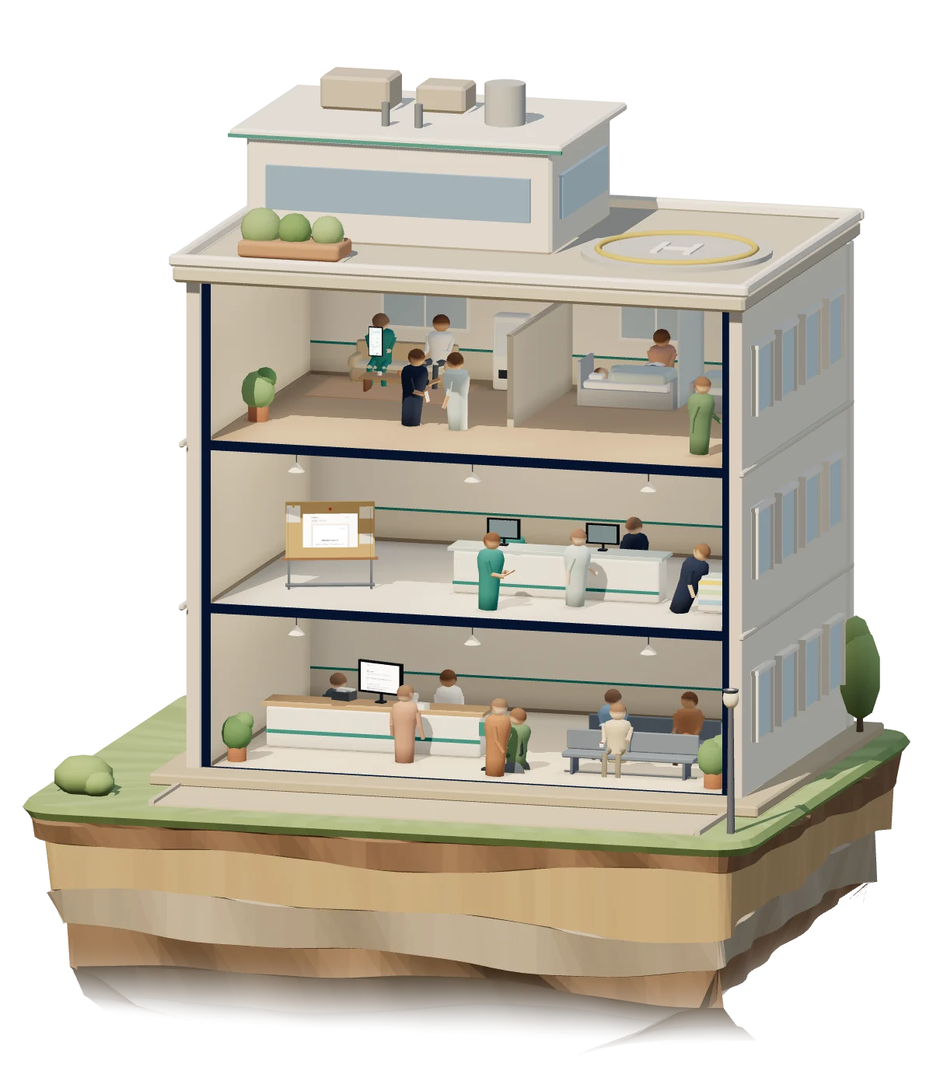
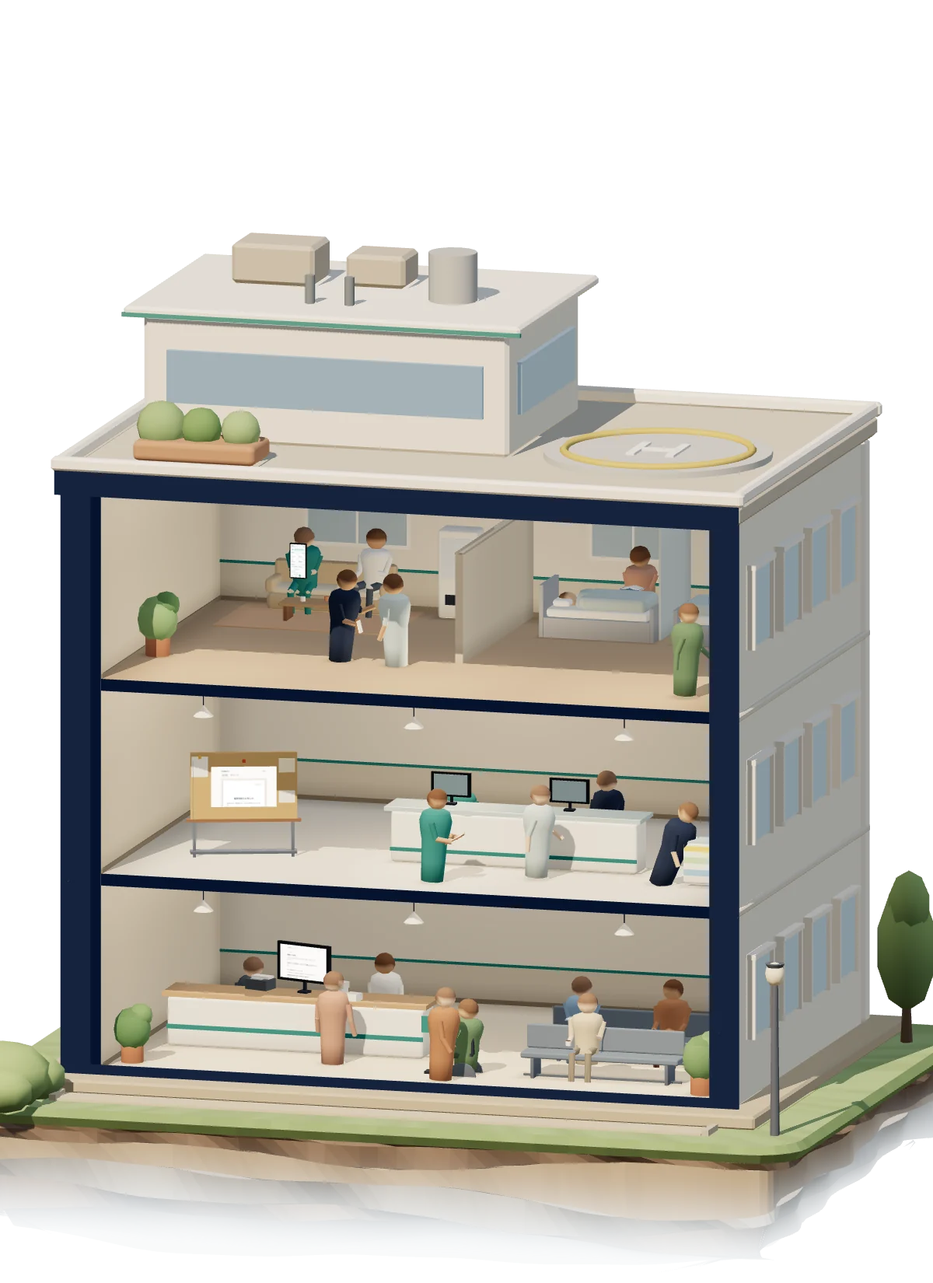
wip(top): 「ひらく町 v5 案B」第2回 建物を大きく・夜の空気と月明かり・断面の輪郭・札(途中保存)
- 構図: 一切れの左と前を詰め(SLAB)、土の厚みを半分に(STRATA)。スマホ 393×724 で 1階ぶん約81px
- 空気: 土は下へ行くほど区画の空の色へ溶ける(soilAir・HAZE)。昼の地層の彩度を下げた。夜は月(MOON)が右の側壁の角と軒を照らす
- 入り: 「病院の中」と一文を区画の空の左上へ重ね、島が抜けきる前に屋根が出るよう間を詰めた。町の病院の札は屋根が見えるまで残す
- 断面の輪郭: 左の壁と屋根の厚みを床と同じ藍で(frameCut)。壁が沈むのに合わせて濃く
- 札: 3F は「病棟」に。階の札は 12px で部屋の右上の角へ。JS がないときは札を出さない
- 止めた絵(昼・夕・夜)を撮り直し、IN_POS・--ar・tools/README.md を合わせた

Claude-Session: https://claude.ai/code/session_016dwt5JPBcjN3XLYgLUEaNS

diff --git a/proto/top-ad/hiraku5b/sect.js b/proto/top-ad/hiraku5b/sect.js
@@ -11,23 +11,31 @@ import * as THREE from 'three';
 
 const deg = d => d * Math.PI / 180, clamp01 = v => Math.max(0, Math.min(1, v));
 const ease = v => { v = clamp01(v); return v < .5 ? 4 * v * v * v : 1 - Math.pow(-2 * v + 2, 3) / 2; };
-/* 構図: az = 正面からの回し(度。負で右の側面が見える)、el = 見下ろす角度(度)。m = 枠の余白(幅・高さに対する比) */
-export const VIEW = { az: -16, el: 11, m: { l: .02, r: .02, t: .025, b: .02 } };
+/* 構図: az = 正面からの回し(度。負で右の側面が見える)、el = 見下ろす角度(度)。m = 枠の余白(幅・高さに対する比)。
+   上の余白は、スマホで「病院の中」と一文を空に重ねる所(屋上の設備の上。約 78px) */
+export const VIEW = { az: -16, el: 11, m: { l: .015, r: .015, t: .142, b: .01 } };
+/* 枠に収める横の幅: 建物の左右に side だけ(一切れの左右の端は、画面の外へ出てよい)。スマホで各階が約 80px になる幅 */
+const FR = { side: .27 };
 /* 一切れの大きさ(主棟の外の面から): 左右・奥・手前(車寄せの前の広場) */
-const SLAB = { l: .72, r: .3, back: .3, front: .95 };   // 左は階の札の場所(左の切り口の外)
+const SLAB = { l: .45, r: .45, back: .3, front: .55 };
 const TOD_I = { day: 0, dusk: 1, night: 2 };
-const ROOMS = [2, 1, 0];   // 階の札(3F・2F・1F の順)。左の切り口の外、その階の真ん中の高さ
+const ROOMS = [2, 1, 0];   // 階の札(3F・2F・1F の順)。その階の部屋の右上の角(病院の階の案内の札のように)
 const STATIONS = ['yawagaeshi', 'keiji', 'nidodema'];
+/* 一切れの土にかける空気: 区画の空の色(時刻ごと)。上の草のすぐ下から掛かり始め、下の端で空へ溶けきる */
+const HAZE = [new THREE.Color('#DAE6ED'), new THREE.Color('#C4B1B9'), new THREE.Color('#141D41')];   // 昼・夕・夜(区画の空の --in-1 と --in-2 の間)
+/* 夜の月明かり: 町と同じ色と強さのまま、向きだけ右手前の上から(右の側面と軒・角に光が乗り、夜空の中で立体が読める) */
+const MOON = new THREE.Vector3(10, 11, 3);
 
 /* ---------- 島の一切れ(角の丸い長方形の地層。島の縁と同じ層と色) ---------- */
-const STRATA = [   // 島の縁(world.js)と同じ層と色。縦はおよそ 0.6 倍(低い角度から見ると、層の面が正面に近く、厚く見えるため)
+const STRATA = [   // 島の縁(world.js)と同じ層と色。土の厚みは、第1回の半分(草の下から -0.78 まで)
   { y: 0, d: 0, c: null }, { y: -.04, d: .03, c: 'grassEdge' }, { y: -.09, d: -.012, c: 'grassEdge' },
-  { y: -.1, d: -.03, c: 'soil1' }, { y: -.22, d: -.05, c: 'soil1' },
-  { y: -.23, d: -.09, c: 'soil2' }, { y: -.55, d: -.11, c: 'soil2' },
-  { y: -.56, d: -.15, c: 'soil3' }, { y: -.8, d: -.19, c: 'soil3' },
-  { y: -.81, d: -.24, c: 'soil4' }, { y: -1.0, d: -.32, c: 'soil4' },
-  { y: -1.03, d: -.42, c: 'rock' }, { y: -1.22, d: -.66, c: 'rock' }, { y: -1.25, d: -.74, c: 'rockD' }, { y: -1.45, d: -1.1, c: 'rockD' }
+  { y: -.1, d: -.03, c: 'soil1' }, { y: -.16, d: -.045, c: 'soil1' },
+  { y: -.165, d: -.07, c: 'soil2' }, { y: -.325, d: -.085, c: 'soil2' },
+  { y: -.33, d: -.11, c: 'soil3' }, { y: -.45, d: -.14, c: 'soil3' },
+  { y: -.455, d: -.17, c: 'soil4' }, { y: -.55, d: -.22, c: 'soil4' },
+  { y: -.565, d: -.29, c: 'rock' }, { y: -.66, d: -.45, c: 'rock' }, { y: -.675, d: -.5, c: 'rockD' }, { y: -.775, d: -.75, c: 'rockD' }
 ];
+const SOIL_BOTTOM = -.775;
 function rimPoints(x0, x1, z0, z1, rad, step) {   // 外向きの向きつきの縁の点 [x, z, nx, nz]。正面(+z)の左から右へ、時計回り
   const out = [], line = (ax, az, bx, bz, nx, nz) => { const L = Math.hypot(bx - ax, bz - az), n = Math.max(1, Math.round(L / step)); for (let i = 0; i < n; i++) { const u = i / n; out.push([ax + (bx - ax) * u, az + (bz - az) * u, nx, nz]); } };
   const arc = (cx, cz, a0, a1) => { const n = 5; for (let i = 0; i < n; i++) { const a = a0 + (a1 - a0) * i / n; out.push([cx + Math.cos(a) * rad, cz + Math.sin(a) * rad, Math.cos(a), Math.sin(a)]); } };
@@ -58,7 +66,7 @@ function slice(world, ctx, K, BOXES, WALL) {
     const cc = STRATA[k + 1].c; if (!cc) continue;
     for (let i = 0; i < N; i++) {
       const a = rows[k][i], b2 = rows[k][(i + 1) % N], c = rows[k + 1][(i + 1) % N], d = rows[k + 1][i], nx = (a[3] + b2[3]) / 2, nz = (a[4] + b2[4]) / 2;
-      tmp.set(C[cc]).offsetHSL(0, (rnd() - .5) * .02, (rnd() - .5) * .035 - (k > 6 ? .02 : 0));
+      tmp.set(C[cc]).offsetHSL(0, (cc === 'grassEdge' ? 0 : -.14) + (rnd() - .5) * .02, (rnd() - .5) * .035 - (k > 6 ? .02 : 0));   // 土と岩は彩度を落とす(最初の画面の島の下と同じ落ち着き。ケーキの断面に見えないように)
       const b0 = pos.length / 3;
       for (const v of [a, b2, c, d]) { pos.push(v[0], v[1], v[2]); nor.push(nx, -.15 * (k > 10 ? 1 : 0), nz); col.push(tmp.r, tmp.g, tmp.b); }
       idx.push(b0, b0 + 1, b0 + 2, b0, b0 + 2, b0 + 3);
@@ -94,13 +102,26 @@ async function parts() {
   return { W, BOXES: Bd.BOXES, WALL: Bd.WALL, K, MOD };
 }
 function sceneOpts(P, q) { return { only: 'hospital', quality: q, ao: false, exterior: { solo: true }, extra: (world, ctx) => slice(world, ctx, P.K, P.BOXES, P.WALL) }; }
-/* 枠に収める点: 一切れの上の縁と下の端、建物の箱(屋上の設備まで)、右奥の木のてっぺん */
+/* 枠に収める点: 建物の箱(屋上の設備の高さまで)の左右に FR.side を足した幅と、一切れの手前の縁・土の下の端(高さだけ。一切れの左右の端は画面の外へ出てよい) */
 function framePts(P) {
   const ex = slabExtent(P.BOXES, P.WALL), b = P.BOXES.hospital, top = b.h + .1 + .62 + .35 + .06, pts = [];
-  for (const [x, z] of [[ex.x0, ex.z0], [ex.x1, ex.z0], [ex.x0, ex.z1], [ex.x1, ex.z1]]) pts.push(new THREE.Vector3(x, 0, z), new THREE.Vector3(x * .7, -1.45, z * .7 + (ex.z0 + ex.z1) * .15));
-  for (const x of [-ex.X, ex.X]) for (const z of [-ex.Z, ex.Z]) pts.push(new THREE.Vector3(x, top, z));
-  pts.push(new THREE.Vector3(ex.x1 - .2, 1.24, ex.z0 + .45));
+  for (const x of [-ex.X - FR.side, ex.X + FR.side]) for (const z of [-ex.Z, ex.Z]) pts.push(new THREE.Vector3(x, top, z), new THREE.Vector3(x, 0, z));
+  pts.push(new THREE.Vector3(0, 0, ex.z1), new THREE.Vector3(0, SOIL_BOTTOM, ex.z1 - .3));
   return pts;
+}
+/* 断面の輪郭: 左右の壁と屋根の床の切り口、地面の線を、階の床の切り口と同じ藍で太く(光に左右されない図面の線)。
+   左右は前の壁のあった厚みの中(前の壁があるうちは隠れる)、屋根は屋根の板の前の面。壁が沈んでから濃くする */
+function frameCut(P, anchor) {
+  const b = P.BOXES.hospital, t = P.WALL, X = b.w / 2 + .004, Z = b.d / 2 + .004, h = b.h, out = X + t, sw = .115;
+  const mat = new THREE.MeshBasicMaterial({ color: '#16233E', toneMapped: false, transparent: true, opacity: 0 });
+  const g = new THREE.Group(), add = (w, hh, d, x, y, z) => { const m = new THREE.Mesh(new THREE.BoxGeometry(w, hh, d), mat); m.position.set(x, y, z); g.add(m); };
+  const zc = Z + .074;   // 前の壁の厚みの中(側面の石の水切りの前の端より手前。壁があるうちは隠れ、透明のまま)
+  add(sw + .035, h + .1, .006, -out - .035 + (sw + .035) / 2, (h + .1) / 2, zc);
+  add(sw + .035, h + .1, .006, out + .035 - (sw + .035) / 2, (h + .1) / 2, zc);
+  add(2 * out, .085, .006, 0, .012, zc);                                    // 地面の線(1階の床の切り口の下)
+  add(2 * out + .1, .12, .004, 0, h + .044, (2 * (Z + t) + .1) / 2 + .002);   // 屋根の板の前の面
+  anchor.add(g);
+  return mat;
 }
 function aim(P, camera, world, W, H, mg) {
   world.rotation.y = deg(45 + VIEW.az); world.updateMatrixWorld(true);
@@ -127,12 +148,24 @@ function fitLights(L) {
   sc.left = x0; sc.right = x1; sc.bottom = y0; sc.top = y1; sc.updateProjectionMatrix();
 }
 const MODE = m => m < .5 ? 'day' : m < 1.5 ? 'dusk' : 'night';
-/* 札の位置: 道具は物の上(画面の板の少し上)、階の札は左の切り口の角の外(その階の真ん中の高さ)。枠の中の px */
+/* 時刻の灯り(町と同じ applyTod)に、断面の場だけの2つを足す: 夜の月を右手前の上から(MOON)、一切れの土にかける空気の色を区画の空に(HAZE) */
+function atmos(P, L, renderer, m) {
+  const U = P.W.U, glow = P.W.applyTod(L, renderer, m), nk = clamp01((m - 1.2) / .8);
+  if (nk > 0) L.sun.position.lerp(MOON, nk);
+  fitLights(L);
+  const i = Math.min(1, Math.floor(m)), k = m - i; U.uHazeC.value.copy(HAZE[i]).lerp(HAZE[Math.min(2, i + 1)], k);
+  return glow;
+}
+/* 土の空気: 草のすぐ下から掛かり始め、下の端で区画の空へ(色を寄せ、透明へ) */
+function soilAir(U) { U.uHazeY.value.set(SOIL_BOTTOM, -.1); U.uHazeK.value = .78; U.uHazeA.value = .9; }
+/* 札の位置: 道具は物の上(画面の板の少し上)、階の札はその階の部屋の右上の角。枠の中の px */
 function labels(P, it, camera, world, W, H) {
-  const v = new THREE.Vector3(), out = { st: {}, fl: [] }, b = P.BOXES.hospital, fh = b.h / b.floors, ex = slabExtent(P.BOXES, P.WALL);
+  const v = new THREE.Vector3(), out = { st: {}, fl: [] }, b = P.BOXES.hospital, fh = b.h / b.floors;
   it.group.updateWorldMatrix(true, true);
   for (const s of it.stations) { if (!STATIONS.includes(s.id)) continue; v.copy(s.anchor); it.group.localToWorld(v); v.project(camera); out.st[s.id] = [(v.x + 1) / 2 * W, (1 - v.y) / 2 * H]; }
-  for (const f of ROOMS) { v.set(-ex.X, .06 + fh * (f + .5), ex.Z); world.localToWorld(v); v.project(camera); out.fl.push([(v.x + 1) / 2 * W, (1 - v.y) / 2 * H]); }
+  // 階の札: その階の部屋の右上の角(右の切り口のすぐ内側・上の床の切り口のすぐ下。部屋の前の面の高さで)。道具の札は左寄りなので重ならない。
+  // 3階の右は病棟、2階の右はナースステーションのカウンター(札の名前の場所そのもの)
+  for (const f of ROOMS) { v.set(b.w / 2 - .085, .06 + fh * (f + 1) - .085, b.d / 2 - .04); world.localToWorld(v); v.project(camera); out.fl.push([(v.x + 1) / 2 * W, (1 - v.y) / 2 * H]); }
   return out;
 }
 
@@ -153,13 +186,14 @@ export async function section(o) {
   // 一棟だけ: 病院を「ひらいた建物」にして、前の壁の動き(沈む)を uPM[1] に。屋根は残す。前の壁は地面の高さより下を描かない
   U.uOpenA.value = LAY.hospital.bid; U.uRoofA.value = 1; U.uGroundCut.value = -.004; U.uFocus.value = -1;
   for (const M4 of U.uPM.value) M4.identity();
-  U.uHazeY.value.set(-1.45, -.82); U.uHazeK.value = 0; U.uHazeA.value = 1;   // 一切れの下の端は、透明へ溶かす(ページの空の色がそのまま見える)
+  soilAir(U);   // 一切れの土は、下へ行くほど区画の空の色へ溶ける(最初の画面の島の下と同じ空気)
   // 中の形(人と道具)。画像は絶対の URL で読む
   const loader = new THREE.TextureLoader();
   const cctx = { palette: Wd.PALETTE, quality: q, loadTexture: url => loader.loadAsync(url).then(tx => { tx.colorSpace = THREE.SRGBColorSpace; return tx; }) };
   const it = P.MOD.buildInterior('hospital', P.BOXES.hospital, cctx); S.B.hospital.anchor.add(it.group); it.group.visible = true;
+  const cutMat = frameCut(P, S.B.hospital.anchor);
   let todX = o.tod || 0, todT = todX, mode = MODE(todX);
-  function setTodNow(m) { const glow = Wd.applyTod(L, renderer, m); fitLights(L); it.setNight(glow); mode = MODE(m); }
+  function setTodNow(m) { const glow = atmos(P, L, renderer, m); it.setNight(glow); mode = MODE(m); }
   setTodNow(todX);
   inLight(P, L, S.world);
   const BH = P.BOXES.hospital.h, SINK = BH + .25;
@@ -167,6 +201,7 @@ export async function section(o) {
   function applyReveal() {
     const k = ease(rv);
     U.uPM.value[1].makeTranslation(0, -SINK * k, 0);
+    cutMat.opacity = clamp01((k - .45) / .35);   // 断面の輪郭は、壁が沈むのに合わせて濃く
     const il = clamp01((rv - .28) / .6), glow = U.uNight.value;
     L.pIn.intensity = (1.4 + glow * 2) * il;
     if (!revealed && rv > .3) { revealed = true; if (it.reveal) it.reveal(); }
@@ -230,11 +265,12 @@ export async function capture(Q) {
   U.uOpenA.value = Wd.LAYOUT.hospital.bid; U.uRoofA.value = 1; U.uGroundCut.value = -.004;
   for (const M4 of U.uPM.value) M4.identity();
   U.uPM.value[1].makeTranslation(0, -(P.BOXES.hospital.h + .25), 0);
-  U.uHazeY.value.set(-1.45, -.82); U.uHazeK.value = 0; U.uHazeA.value = 1;
-  const glow = Wd.applyTod(L, renderer, tod); fitLights(L);
+  soilAir(U);
+  const glow = atmos(P, L, renderer, tod);
   const loader = new THREE.TextureLoader();
   const cctx = { palette: Wd.PALETTE, quality: 'high', loadTexture: url => loader.loadAsync(url).then(tx => { tx.colorSpace = THREE.SRGBColorSpace; return tx; }) };
   const it = P.MOD.buildInterior('hospital', P.BOXES.hospital, cctx); S.B.hospital.anchor.add(it.group);
+  frameCut(P, S.B.hospital.anchor).opacity = 1;
   await it.ready; it.setNight(glow); if (it.reveal) it.reveal();
   await new Promise(r => setTimeout(r, 1400));
   const t = +(Q.get('t') || 0);

diff --git a/proto/top-ad/hiraku5b/index.html b/proto/top-ad/hiraku5b/index.html
@@ -304,17 +304,17 @@ main:focus{outline:none}
 @property --in-0{syntax:'<color>';inherits:true;initial-value:transparent}
 @property --in-1{syntax:'<color>';inherits:true;initial-value:transparent}
 @property --in-2{syntax:'<color>';inherits:true;initial-value:transparent}   /* 色として登録して、時刻を変えたときに空の色が立体の灯りと一緒に移るように(登録できないブラウザでは、すぐ替わる) */
-:root{--in-0:rgb(var(--mist));--in-1:var(--sky-d2);--in-2:var(--sky-d1);--ar:1.16612;--in-fg-3:var(--ink-3)}   /* --ar: 断面の枠の 高さ / 幅(sect.js の frameAspect と同じ。止めた画像と立体を同じ枠に) */
+:root{--in-0:rgb(var(--mist));--in-1:var(--sky-d2);--in-2:var(--sky-d1);--ar:1.37484;--in-fg-3:var(--ink-3)}   /* --ar: 断面の枠の 高さ / 幅(sect.js の frameAspect と同じ。止めた画像と立体を同じ枠に) */
 html[data-tod="dusk"]{--in-1:var(--sky-e2);--in-2:var(--sky-e1)}
 html[data-tod="night"]{--in-1:var(--sky-n2);--in-2:var(--sky-n1);--in-fg-3:#BFC5D6}
-.inside{position:relative;isolation:isolate;padding-top:clamp(18px,4vh,40px);background:linear-gradient(180deg,var(--in-0) 0,var(--in-1) 48%,var(--in-2) 100%);color:var(--hero-fg);transition:--in-0 1.2s var(--ease),--in-1 1.2s var(--ease),--in-2 1.2s var(--ease)}
+.inside{position:relative;isolation:isolate;padding-top:0;background:linear-gradient(180deg,var(--in-0) 0,var(--in-1) 48%,var(--in-2) 100%);color:var(--hero-fg);transition:--in-0 1.2s var(--ease),--in-1 1.2s var(--ease),--in-2 1.2s var(--ease)}
 @media (prefers-reduced-motion:reduce){.inside,.in-stars{transition:none}}
 .in-stars{position:absolute;inset:18% 0 0;z-index:-1;opacity:0;transition:opacity 1.2s var(--ease);-webkit-mask-image:linear-gradient(180deg,transparent 0,#000 30%);mask-image:linear-gradient(180deg,transparent 0,#000 30%)}
 html[data-tod="night"] .in-stars{opacity:.55}
-.in-copy{position:relative;z-index:4;padding:0 var(--pad)}
+.in-copy{position:absolute;left:0;top:10px;z-index:4;width:min(66%,260px);padding:0 0 0 var(--pad)}   /* スマホ: 断面の枠の左上の空(屋上の設備の上)に重ねる。帯の見出しにしない */
 .in-copy h2{margin:0}
 .in-lead{margin-top:7px;font-size:14px;line-height:1.8;color:var(--hero-fg-2);transition:color 1.2s var(--ease)}
-.in-stage{position:relative;width:100%;max-width:100vw;aspect-ratio:1 / var(--ar);margin:6px auto 0}
+.in-stage{position:relative;width:100%;max-width:100vw;aspect-ratio:1 / var(--ar);margin:0 auto}
 .in-still{position:absolute;inset:0;width:100%;height:100%;transition:opacity .5s var(--ease)}
 #inWorld{position:absolute;inset:0;width:100%;height:100%;opacity:0;transition:opacity .5s var(--ease);pointer-events:none}
 html.inlive #inWorld{opacity:1}
@@ -329,8 +329,10 @@ html.inlive .in-still{opacity:0}
 .itag .one{position:absolute;left:50%;top:calc(100% + 12px);transform:translateX(-50%);width:max-content;max-width:min(240px,70vw);padding:5px 9px;border-radius:6px;background:var(--card);color:var(--ink);font-size:12px;font-weight:400;letter-spacing:.02em;white-space:normal;box-shadow:0 6px 18px -8px rgba(0,0,0,.45);opacity:0;visibility:hidden;transition:opacity .2s var(--ease)}
 .itag:focus-visible .one{opacity:1;visibility:visible}
 @media (hover:hover) and (pointer:fine){.itag:hover{background:var(--indigo)}.itag:hover .one{opacity:1;visibility:visible}}
-.ifl{position:absolute;left:0;top:0;width:66px;display:grid;justify-items:end;text-align:right;color:var(--hero-fg-2);font-size:10px;font-weight:700;letter-spacing:0;line-height:1.45;transform:translate(calc(-100% - 8px),-50%);pointer-events:none;transition:opacity .35s var(--ease),color 1.2s var(--ease)}   /* 階の札: 左の切り口の外(図面の階の印) */
-.ifl b{font:600 16px/1.05 var(--en);letter-spacing:.04em;color:var(--hero-fg)}
+.ifl{position:absolute;left:0;top:0;display:flex;align-items:baseline;gap:6px;padding:3px 8px 4px;border-radius:4px;background:var(--ifl-bg);color:var(--ink-2);font-size:12px;font-weight:700;letter-spacing:.02em;line-height:1.35;white-space:nowrap;transform:translateX(-100%);pointer-events:none;transition:opacity .35s var(--ease)}   /* 階の札: その階の部屋の右上の角(病院の階の案内の札のように。道具の札は左寄り) */
+.ifl b{font:600 13px/1 var(--en);letter-spacing:.04em;color:var(--indigo)}
+:root{--ifl-bg:rgb(255 255 255 / .84)}
+html:not(.js) .in-tags{display:none}   /* JS なしでは札を置けない(枠の左上に重なる)。道具へは JS なしの一覧から */
 html.inlive .in-tags.wait .itag,html.inlive .in-tags.wait .ifl{opacity:0;pointer-events:none}
 .in-more{position:relative;z-index:4;display:flex;justify-content:center;padding:4px var(--pad) 0}
 .in-more a{display:inline-flex;align-items:center;gap:8px;min-height:44px;font-size:14px;font-weight:700;color:var(--hero-fg);text-decoration:underline;text-decoration-color:currentColor;text-decoration-thickness:1px;text-underline-offset:6px}
@@ -394,7 +396,7 @@ html.past:not(.opened) .logo svg{width:42px}
   html.opened .copy,html.opened .cta-wrap,html.opened .hint{opacity:0;pointer-events:none}
 }
 @media (min-width:921px) and (max-height:760px){.copy{top:110px}.lead{display:none}.cta-wrap{top:270px}}
-@media (min-width:921px){.in-stage{width:auto;height:min(84vh,860px);margin-top:-48px}.in-copy{position:absolute;left:var(--pad);top:clamp(40px,10vh,110px);width:min(28vw,360px)}.in-lead{font-size:15px}.inside{padding-top:clamp(28px,6vh,64px)}}
+@media (min-width:921px){.in-stage{width:auto;height:min(84vh,860px);margin-top:-48px}.in-copy{position:absolute;left:var(--pad);top:clamp(40px,10vh,110px);width:min(28vw,360px);padding:0}.in-lead{font-size:15px}.inside{padding-top:clamp(28px,6vh,64px)}}
 
 /* ---- スマホ(920px まで): 上にロゴとメニュー、一行と見出し、島が画面の大半、下に入口 ---- */
 @media (max-width:920px){
@@ -558,10 +560,10 @@ html.capture body > *:not(#cap){display:none!important}
     <p class="in-lead"><span class="ph">いつもの仕事のそばに、</span><span class="ph">3つの道具を</span><span class="ph">置いてみました。</span></p>
   </div>
   <div class="in-stage" id="inStage">
-    <img class="in-still" id="inStill" src="img/in-day-800.webp" srcset="img/in-day-800.webp 800w, img/in-day-1200.webp 1200w" sizes="(max-width: 920px) 100vw, calc(min(84vh, 860px) / 1.166)" width="1200" height="1399" alt="島から切り出した一切れの上に立つ、模型の町の病院。正面の壁を外した断面で、3階は休憩室と病室、2階はナースステーション、1階は受付と待合。人が働いていて、休憩室の人のスマホにやわ返、2階の掲示板に掲示じたく、受付の画面に二度手間さがしの実際の画面が映っている" loading="lazy" decoding="async" data-day="img/in-day" data-dusk="img/in-dusk" data-night="img/in-night">
+    <img class="in-still" id="inStill" src="img/in-day-800.webp" srcset="img/in-day-800.webp 800w, img/in-day-1200.webp 1200w" sizes="(max-width: 920px) 100vw, calc(min(84vh, 860px) / 1.375)" width="1200" height="1650" alt="島から切り出した一切れの上に立つ、模型の町の病院。正面の壁を外した断面で、3階は休憩室と病室、2階はナースステーション、1階は受付と待合。人が働いていて、休憩室の人のスマホにやわ返、2階の掲示板に掲示じたく、受付の画面に二度手間さがしの実際の画面が映っている" loading="lazy" decoding="async" data-day="img/in-day" data-dusk="img/in-dusk" data-night="img/in-night">
     <canvas id="inWorld" aria-hidden="true"></canvas>
     <div class="in-tags" id="inTags">
-      <span class="ifl" aria-hidden="true"><b>3F</b>休憩室</span><span class="ifl" aria-hidden="true"><b>2F</b><span class="ph">ナース</span><span class="ph">ステーション</span></span><span class="ifl" aria-hidden="true"><b>1F</b>受付</span>
+      <span class="ifl" aria-hidden="true"><b>3F</b>病棟</span><span class="ifl" aria-hidden="true"><b>2F</b>ナースステーション</span><span class="ifl" aria-hidden="true"><b>1F</b>受付</span>
       <ol aria-label="病院の中の道具">
         <li><a class="itag" data-sid="yawagaeshi" href="../../../yawagaeshi/index.html"><span class="sr">3階 休憩室の </span>やわ返<span class="one">角の立たない返信案を、3つつくる</span></a></li>
         <li><a class="itag" data-sid="keiji" href="../../../keiji/index.html"><span class="sr">2階 ナースステーションの </span>掲示じたく<span class="one">院内掲示を、選んで埋めるだけ</span></a></li>

diff --git a/proto/top-ad/hiraku5b/hiraku.js b/proto/top-ad/hiraku5b/hiraku.js
@@ -610,7 +610,7 @@ function boot() {
   const ifls = $$('.ifl', inTags), itags = $$('.itag', inTags);
   let sect = null, sectP = null, sectVis = false;
   /* 止めた画像の札の位置(撮るときに書き出した値。枠の %) */
-  const IN_POS = { st: { yawagaeshi: [40.25, 29.36], keiji: [35.4, 46.44], nidodema: [40.73, 60.26] }, fl: [[19.57, 33.43], [19.57, 48.4], [19.57, 63.38]] };
+  const IN_POS = { st: { yawagaeshi: [31.93, 41.66], keiji: [26.14, 58.97], nidodema: [32.51, 72.98] }, fl: [[75.61, 41.85], [75.61, 57.03], [75.61, 72.21]] };
   function inStillSrc() { const b = inStill.dataset[R.dataset.tod] || inStill.dataset.day; inStill.srcset = b + '-800.webp 800w, ' + b + '-1200.webp 1200w'; inStill.src = b + '-800.webp'; }
   inStillSrc();
   function placeIn(px) {   // px: { st: {sid: [x, y]}, fl: [[x, y]] } 枠の中の px
@@ -633,7 +633,7 @@ function boot() {
     inTags.classList.add('wait');
     sectP = import('./sect.js').then(M => M.section({
       canvas: inCanvas, tod: TODS.indexOf(R.dataset.tod), quality, paused, reveal: inReveal, reduce,
-      onLayout(L) { placeIn(L); inTags.classList.toggle('wait', L.k < .82); },
+      onLayout(L) { placeIn(L); inTags.classList.toggle('wait', L.k < .82); window.__inK = L.k; },   // __inK: 壁の沈み具合(確かめるため)
       onReady() { requestAnimationFrame(() => R.classList.add('inlive')); }
     })).then(api => { sect = api; sect.setPaused(paused); sect.setVisible(sectVis); sect.setReveal(inReveal()); window.__sect = api; })
       .catch(err => { console.warn(err); inTags.classList.remove('wait'); stillIn(); });
@@ -645,11 +645,14 @@ function boot() {
   }
   /* スクロール: 壁の沈み具合と、町の病院の目印 */
   let inQ = 0, hospMark = false;
+  const inCopy = $('.in-copy', $('#inside'));
   const inUpd = () => {
     inQ = 0;
+    if (!openId) R.classList.toggle('past', hero.getBoundingClientRect().bottom < 72);   // 上の帯の固定も位置で決める(一気に下へ移ったときも、帯と一文の重なりを正しく測るため。ひらいている間は町の側に任せる)
     if (sect) sect.setReveal(inReveal());
+    if (inCopy) { const ct = inCopy.getBoundingClientRect().top, hb = R.classList.contains('past') ? hd.offsetHeight : hd.getBoundingClientRect().bottom; inCopy.style.opacity = Math.max(0, Math.min(1, (ct - hb) / 36)).toFixed(3); }   // 空に重ねた一文は、上の帯の下へ入る前に消す(帯の向こうに透けて重ならないように)。固定した帯は、出てくる動きの途中でも止まった位置で測る
     const hr = hero.getBoundingClientRect(), k = -hr.top / Math.max(1, hr.height);
-    const on = k > .16 && k < .95 && !openId;
+    const on = k > .03 && k < .6 && !openId;   // スクロールし始めたらすぐ(下に断面の屋上が出てくる間、町の病院を目で追えるように)
     if (on !== hospMark) {
       hospMark = on;
       if (on) { stopInvite(); if (ctl) ctl.hover('hospital'); showTag('hospital', true); }

diff --git a/proto/top-ad/hiraku5b/tools/README.md b/proto/top-ad/hiraku5b/tools/README.md
@@ -1,6 +1,6 @@
 # ひらく町 v5 案B の断面の絵を撮り直す
 
-案B の「病院の中」の区画は、立体(`sect.js`)が動くまでと、動きを減らす設定・WebGL が使えないとき(`?static=1`)に、止めた絵 `img/in-{day,dusk,night}-{1200,800}.webp` を見せます。町や病院の中(`world.js`・`buildings.js`・`interiors.js`)か、`sect.js` の構図(`VIEW`・`SLAB`)と一切れの小物(`slice`)を変えたら撮り直します。
+案B の「病院の中」の区画は、立体(`sect.js`)が動くまでと、動きを減らす設定・WebGL が使えないとき(`?static=1`)に、止めた絵 `img/in-{day,dusk,night}-{1200,800}.webp` を見せます。町や病院の中(`world.js`・`buildings.js`・`interiors.js`)か、`sect.js` の構図(`VIEW`・`FR`・`SLAB`)・一切れ(`STRATA`・`slice`)・灯りと空気(`MOON`・`HAZE`・`soilAir`)・断面の輪郭(`frameCut`)を変えたら撮り直します(夜勤の人を足したとき・第2回で建物を大きくしたときも撮り直した)。
 
 準備: リポジトリのルートを `http://localhost:8097/` で配信する(例: `http-server . -p 8097 -s -c-1`)。Playwright の場所を `PW` で渡す(例: `PW=/opt/node22/lib/node_modules/playwright/index.mjs`)。
 
@@ -11,7 +11,7 @@
    node capture.mjs 'capture=inside&tod=dusk&w=1200' <撮る所>/in-dusk.png
    node capture.mjs 'capture=inside&tod=night&w=1200' <撮る所>/in-night.png
    ```
-   出力の `ar` は枠の 高さ / 幅、`st` は道具の札の位置、`fl` は階の札の位置(どちらも枠の %)
+   出力の `ar` は枠の 高さ / 幅、`st` は道具の札の位置、`fl` は階の札の位置(部屋の右上の角。どちらも枠の %)。第2回(2026-10-25)の値: `ar` 1.37484、`st` やわ返 31.93,41.66・掲示じたく 26.14,58.97・二度手間さがし 32.51,72.98、`fl` 75.61,41.85 / 57.03 / 72.21
 2. webp にする(幅 1200 と 800)
 
    ```
